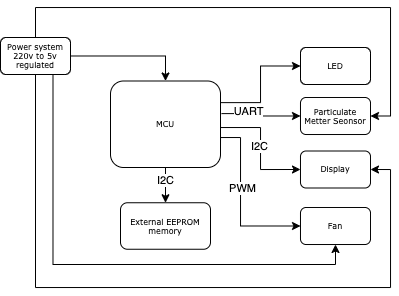
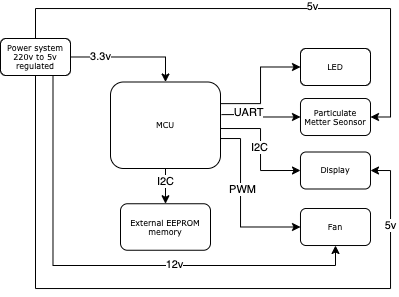
Add complementary information regarding the power system and more details concerning the sensor.

diff --git a/README.md b/README.md
@@ -33,6 +33,11 @@ STM32L476RGT6 using a [nucleo-L476RG](https://os.mbed.com/platforms/ST-Nucleo-L4
 
 [Honeywell HPM Standard particulate matter sensor (32322550)](https://prod-edam.honeywell.com/content/dam/honeywell-edam/sps/siot/en-us/products/sensors/particulate-matter-sensors-hpm-series/documents/sps-siot-particulate-hpm-series-datasheet-32322550-ciid-165855.pdf) - UART
 
+The Honeywell HPM Series Particulate Matter Sensor is a laser-based sensor which detects and counts particles using light scattering. The detection concentration range is
+0 μg/m3 to 1,000 μg/m3. A laser light source illuminates a particle as it is pulled through the detection chamber. As particles pass through the laser beam, the light reflects 
+off the particles and is recorded on the photo or light detector. The light is then analyzed and converted to an electrical signal to calculate particle concentration. The Honeywell 
+particle sensor provides information on the particle concentration for given particle concentration range.
+
 ### Display
 
 [LCD1602 LCD module](http://wiki.sunfounder.cc/index.php?title=LCD1602_Module) - I2C
@@ -44,3 +49,11 @@ STM32L476RGT6 using a [nucleo-L476RG](https://os.mbed.com/platforms/ST-Nucleo-L4
 ### PWM Fan
 
 Pulse-width modulated fan [Noctua NF-F12 PWM](https://www.amazon.fr/gp/product/B00650P2ZC/ref=ppx_yo_dt_b_asin_title_o07_s00?ie=UTF8&psc=1)
+
+### Power System
+
+TODO
+
+For the development phase, two bench power supply will be used to power
+the fan (12 VDC) and the sensor & display (5 VDC).
+The MCU will be powed by the connected computer.
